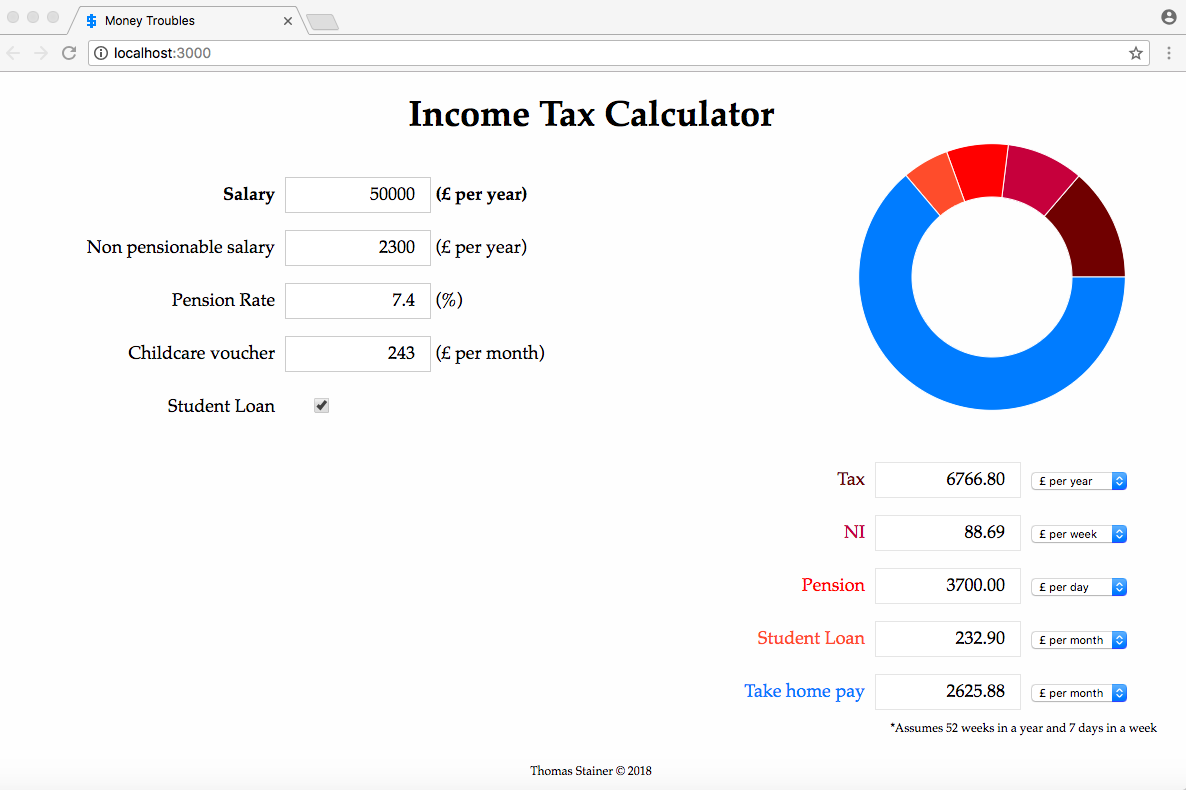
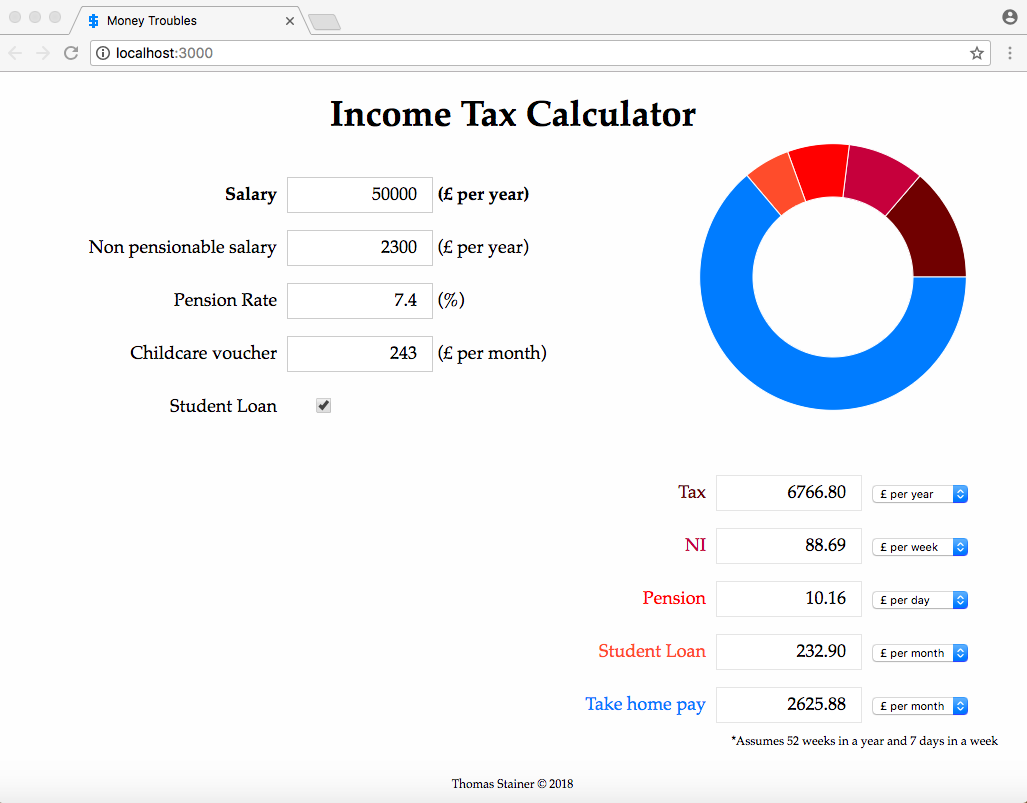
fixed issue with pension period handler

diff --git a/src/js/incomeform.js b/src/js/incomeform.js
@@ -17,12 +17,14 @@ class IncomeForm extends React.Component {
 
         this.handleTaxChange = this.handleTaxChange.bind(this);
         this.handleNIChange = this.handleNIChange.bind(this);
+        this.handlePensionChange = this.handlePensionChange.bind(this);
         this.handleNetPeriodChange = this.handleNetPeriodChange.bind(this);
         this.handleSlChange = this.handleSlChange.bind(this);
 
         this.state = {
           taxPeriod: 'year',
           niPeriod: 'year',
+          pensionPeriod: 'year',
           slPeriod: 'year',
           netSalaryPeriod: 'year',
           grossBasicSalary: 0.0,
@@ -122,6 +124,10 @@ class IncomeForm extends React.Component {
         this.setState({ niPeriod: e.target.value });
       }
 
+      handlePensionChange(e){
+        this.setState({ pensionPeriod: e.target.value });
+      }
+
       handleSlChange(e){
         this.setState({ slPeriod: e.target.value });
       }
@@ -181,7 +187,12 @@ class IncomeForm extends React.Component {
                 classname="label-righty"
                 color={PENSION_COLOUR}
                 name="Pension"
-                value={this.state.pensionPaid}
+                value={computeAmountForPeriod(
+                  this.state.pensionPaid,
+                  this.state.pensionPeriod)
+                }
+                handler={this.handlePensionChange}
+                timeperiod={this.pensionPeriod}
                 unit="(£ per year)"
                 periods = {['year', 'month', 'week', 'day']}
               />
